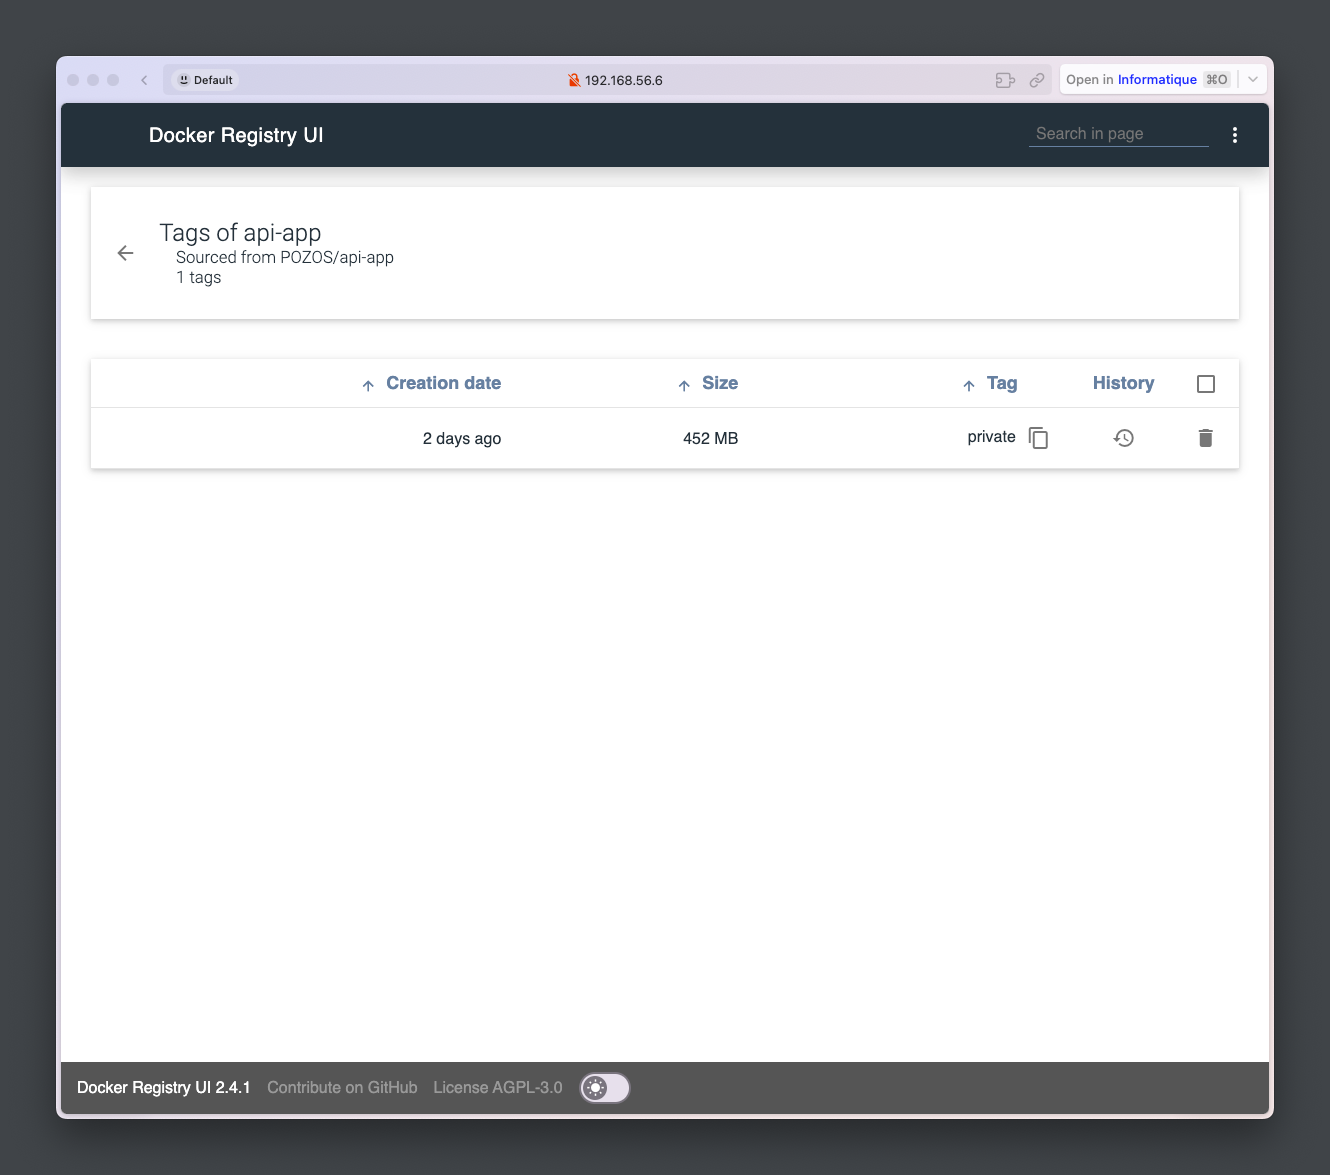
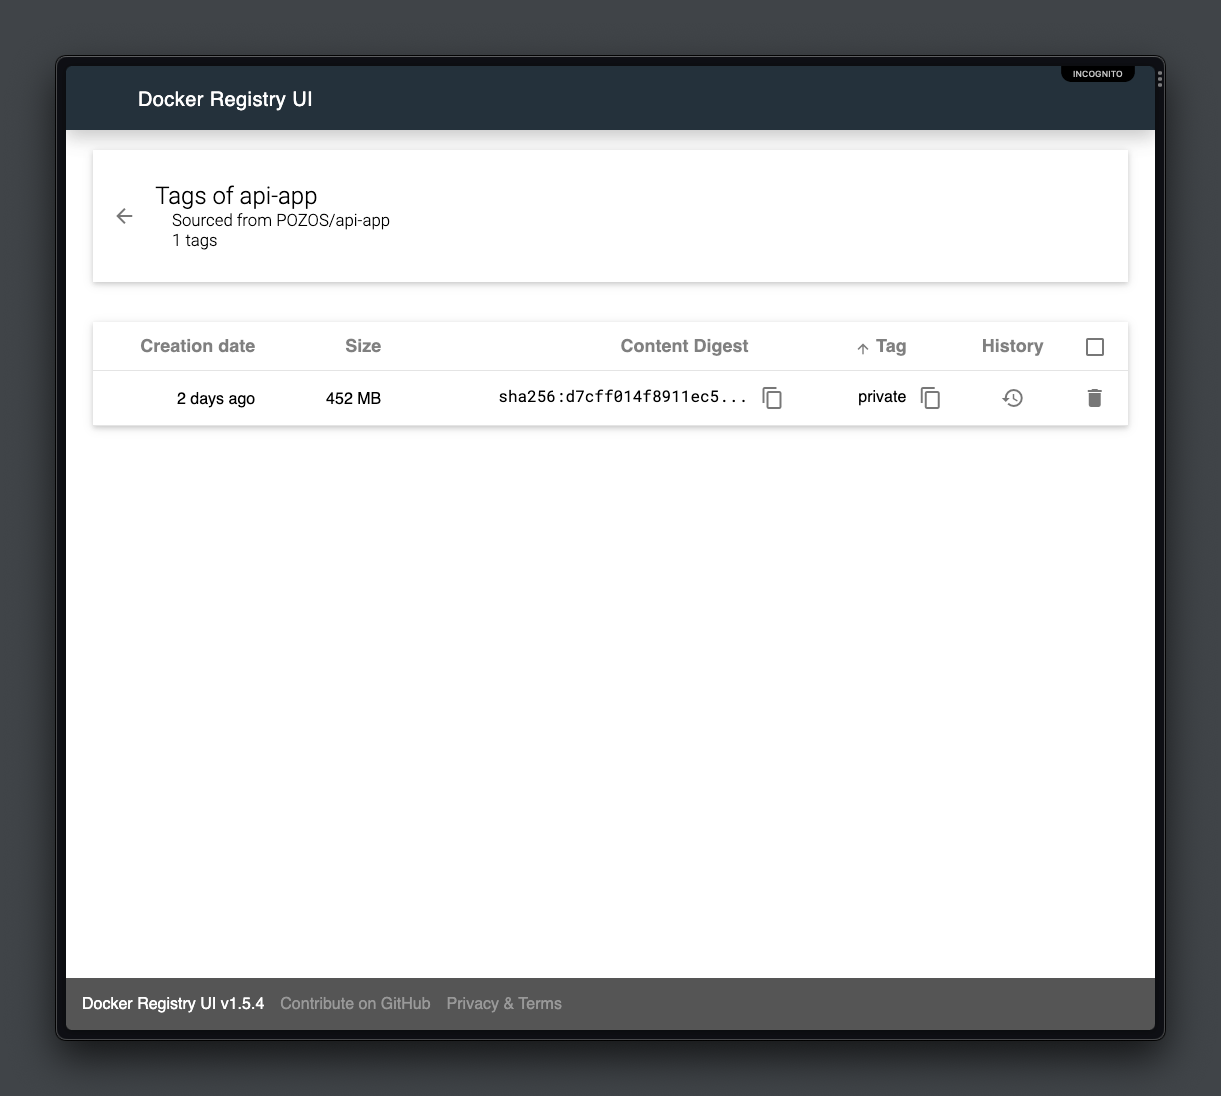
Mise à jour du mini projet J'ai grandement modifié le mini projet afin de fusionner registry.yml et app.yml en un seul fichier : docker-compose.yml. Les fichiers originaux ont été supprimés. En conséquence certains ports ont été modifiés pour éviter les conflits. Le README.md a également été modifié

Changed region(s): [[0.0311, 0.031, 0.9648, 0.9617]]

diff --git a/Projet/README.md b/Projet/README.md
@@ -14,11 +14,14 @@ Enfin dans la troisième partie nous allons comporiser nos conteneurs.
 
 Avec les commandes suivantes :
 
-`git clone https://github.com/diranetafen/student-list.git`
+[Les instructions du Dockerfile à renseigner](https://github.com/MozkaGit/devops-bootcamp-docker/blob/85bcc103d8b1dfd28aceca5c9f986fa4f438f258/Projet/simple_api/Dockerfile)
 
-`mv student_list/* .`
-
-`docker build -f simple_api/Dockerfile -t api-app.doc simple_api/`
+```
+git clone https://github.com/diranetafen/student-list.git
+mv student_list/* .
+vi simple_api/Dockerfile
+docker build -f simple_api/Dockerfile -t api-app.doc simple_api/
+```
 
 Voici le résultat:
 
@@ -93,9 +96,9 @@ Créons d'abord un réseau pour nos conteneurs:
 `docker network create registry-network`
 
 Maintenant il est temps de les créer:
-`docker run --rm -d -p 5000:5000 -e REGISTRY_STORAGE_DELETE_ENABLED=true --network registry-network --name registry-pozos registry:latest`
+`docker run --rm -d -p 5001:5000 -e REGISTRY_STORAGE_DELETE_ENABLED=true --network registry-network --name registry-pozos registry:2.7`
 
-`docker run --rm -d --name frontend-pozos -p 80:80 --network registry-network -e NGINX_PROXY_PASS_URL="http://registry-pozos:5000" -e DELETE_IMAGES=true -e REGISTRY_TITLE=POZOS joxit/docker-registry-ui:latest`
+`docker run --rm -d --name frontend-pozos -p 8090:80 --network registry-network -e REGISTRY_URL="http://registry-pozos:5000" -e DELETE_IMAGES=true -e REGISTRY_TITLE=POZOS joxit/docker-registry-ui:1.5-static`
 
 Vérifions que nous avons accès au registre via l'interface web:
 
@@ -103,13 +106,13 @@ Vérifions que nous avons accès au registre via l'interface web:
 
 #### Étape 2: Push de l'image dans le registre privé
 
-1. Avec un `docker image`il faut récupérer le nom ou l'ID de notre image afin de la tagger:
+1. Avec un `docker image` il faut récupérer le nom ou l'ID de notre image afin de la tagger:
 
-2. docker tag api-app.doc localhost:5000/api-app:private
+2. `docker tag api-app.doc localhost:5001/api-app:private`
 
 3. Passons maintenant au push de l'image:
 
-`docker push localhost:5000/api-app:private`
+`docker push localhost:5001/api-app:private`
 
 4. Notre image est bien présente:
 
@@ -120,14 +123,17 @@ Vérifions que nous avons accès au registre via l'interface web:
 
 ### Partie 3 - Dockerfile
 
-Dans cette partie nous allons créer 2 yml:
+Dans cette partie nous allons créer notre docker-compose.
 
-1. Le premier sera dédié au déploiement de notre [application](https://github.com/MozkaGit/devops-bootcamp-docker/tree/main/Projet).
-2. Le second sera dédié au déploiement du [registre](https://github.com/MozkaGit/devops-bootcamp-docker/tree/main/Projet).
+Il sera dédié au déploiement de nos 4 conteneurs:
+- L'application de listing des étudiants.
+- L'interface web de notre application de listing.
+- Le registre privé.
+- L'interface de notre registre privée.
 
-#### Étape 1: Création des fichiers yml
+#### Étape 1: Création du docker-compose.yml
 
-1. Voici l'équivalent de nos arguments docker run de l'application en yml:
+1. Voici l'équivalent de tous nos arguments `docker run` dans un docker-compose.yml:
 
 ```
 version: '3.3'
@@ -154,56 +160,47 @@ services:
         environment:
             - USERNAME=toto
             - PASSWORD=python
-networks:
-  students-network:
-    driver: bridge
-```
-
-2. Voici l'équivalent de nos arguments docker du registre en yml:
-
-```
-version: '3.3'
-services:
+    
     registry:
         image: 'registry:2.7'
         container_name: registry-pozos
         networks:
             - registry-network
         ports:
-            - '5000:5000'
+            - '5001:5000'
         environment:
             - REGISTRY_STORAGE_DELETE_ENABLED=true
 
     docker-registry-ui:
-        image: 'joxit/docker-registry-ui:latest'
+        image: 'joxit/docker-registry-ui:1.5-static'
         container_name: frontend-pozos
         networks:
             - registry-network
         ports:
-            - '80:80'
+            - '8090:80'
         environment:
-            - NGINX_PROXY_PASS_URL=http://registry-pozos:5000
+            - REGISTRY_URL=http://registry-pozos:5000
             - DELETE_IMAGES=true
             - REGISTRY_TITLE=POZOS
             - SINGLE_REGISTRY=true
+
 networks:
+  students-network:
+    driver: bridge
   registry-network:
     driver: bridge
 ```
 
-#### Étape 2: Exécution des yml
+#### Étape 2: Exécution du docker-compose.yml
 
-1. Démarrage de l'application: 
+1. Exécution: 
 
-`docker compose -f app.yml up -d`
+`docker compose up -d`
 
-![](./screens/app.yml-proof.png)
+![](./screens/docker-compo-up.png)
 
 ![](./screens/web-app.png)
 
-2. Démarrage du registre:
+2. Destruction:
 
-`docker compose -f registry.yml up -d`
-
-![](./screens/registry.yml-proof.png)
-
+![](./screens/docker-compose-down.png)
